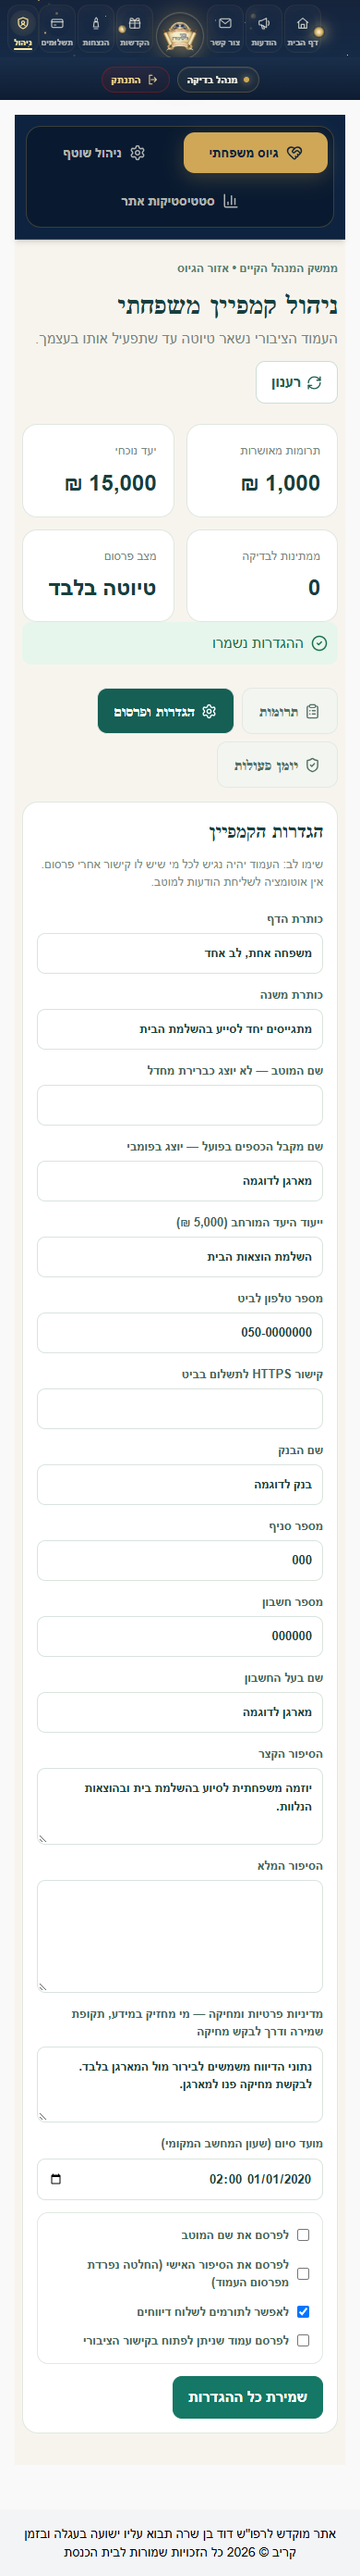
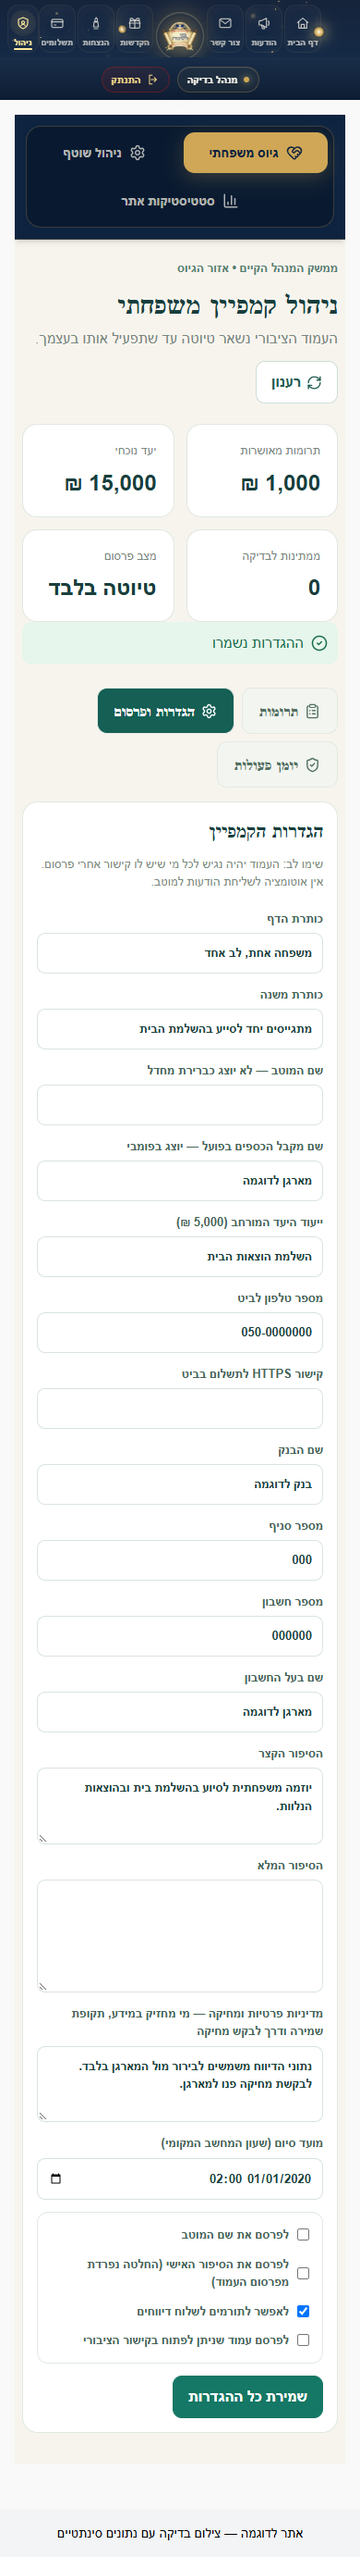
ci: add campaign checks and final privacy readiness review

diff --git a/docs/ariel/FINAL_REVIEW.md b/docs/ariel/FINAL_REVIEW.md
@@ -1,0 +1,31 @@
+# Final preparation review — Draft PR #1
+
+## Verified
+
+- Re-ran 36 server tests successfully, including all five admin endpoints with missing/invalid JWT, a non-admin whose token claims admin, and an inactive admin. Existing AuthProvider/AdminRoute and server authorization are reused; no production account, role or authentication mechanism was added. Test users exist only in the disposable local MongoDB test database.
+- Draft public data, bank details and report endpoints return 404; reads do not seed campaign/donation records. Tests also verify that unpublishing closes these endpoints and the UI clears previously displayed content on the next poll. The SPA shell itself remains downloadable: draft privacy is enforced by withholding campaign data at the API, rather than by password protecting the URL.
+- The MongoDB URI available in local configuration was checked with the read-only `hello` command: replica set present, logical sessions supported, maxWireVersion 25. These are transaction prerequisites, not proof of the deployed Render service's connection identity or its database user's write permissions. No records were read and no production transaction was started. Local replica-set integration tests verify successful transactions and rollback on audit failure.
+- Build passed again. Desktop and mobile browser regressions and screenshots were regenerated from synthetic fixtures. The existing site's personal dedication was removed from the screenshot fixture DOM before capture; the actual site/footer was not modified.
+- Added `.github/workflows/campaign-checks.yml`: pull requests to main and manual dispatch run separate Node 22 server-test and client-build jobs, using npm ci, read-only repository permissions, no production secrets, no deployment actions and time limits. Remote execution must be checked after the branch update; local success does not establish a green remote CI run.
+
+## Privacy scope and limitations
+
+Campaign defaults contain no real beneficiary identity, private story, donor contacts or payment account. Current review screenshots contain synthetic names and payment placeholders. Public serialization excludes donor contacts/references/notes and unapproved names/stories. No outreach templates with real family details were imported. A text scan of tracked source/docs found no matching embedded MongoDB credentials/private-key/AWS-key patterns; this is a targeted scan, not an exhaustive secret audit of binary assets or Git history.
+
+The existing main site's personal dedication and existing contact/email content remain in its source, outside this campaign change. Their publication intent cannot be inferred conclusively from code. Earlier commits of the admin screenshots still contain the existing site's dedication; regenerating current images does not remove Git history. No history rewrite was performed. These existing/historical disclosures need owner review if confidentiality is required.
+
+## Remaining release risks and safe remediation
+
+| Risk | Evidence / next step |
+| --- | --- |
+| Render configuration unverified | Workspace selection is required by the connector. Do not assume rewrite rules, per-path headers, deployed branch, environment origins or the deployed Mongo URI match local configuration. Verify read-only once the workspace is confirmed. |
+| Static-host indexing/privacy headers | Configure and verify path-specific noindex/nofollow/noarchive and no-referrer for `/ariel` and `/ariel/` before publication. API headers and React metadata alone do not configure Render's static host. |
+| Remaining server dependency advisory | npm audit still reports Nodemailer high. The compatible fixes are already applied; the proposed complete fix is Nodemailer 10.6.0, a major upgrade. Safest path: separate upgrade with mocked SMTP/Resend tests and no real sends, followed by staging verification. Campaign code does not invoke mail. |
+| Remaining client advisories | npm audit reports Vite high plus seven moderate findings across Vite/esbuild, React Router and build tooling. Full suggested fixes include Vite 8 and React Router 7, requiring coordinated plugin/Node/router migration tests. Keep development servers local and test upgrades in a separate branch; do not force-upgrade the campaign PR without regression evidence. |
+| Deployment readiness | No live end-to-end authentication/CORS/payment verification was performed. An explicitly authorized staging test is still needed. |
+| Content and privacy decisions | Owner must supply approved payment details, extension purpose, retention/deletion policy and verified deadline. Name and story visibility stay off until separately approved. |
+| Scale/export | Lists and CSV cover 500 recent donations; audit view covers 80 recent events. Totals use all confirmed donations, but complete historical export/pagination is absent. |
+| Revocation/cache | API is no-store; an already-open browser may display previously fetched data until the next visible-tab poll (12 seconds). Unpublishing cannot revoke information already copied or shared. |
+| Build size | Existing application chunks exceed Vite's recommendation. This is a performance limitation, not a failed build. |
+
+No merge, deployment, campaign publication, seed or production configuration change was performed during this review.
